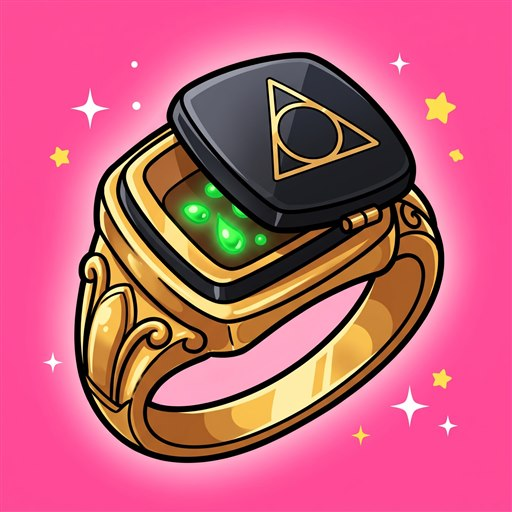
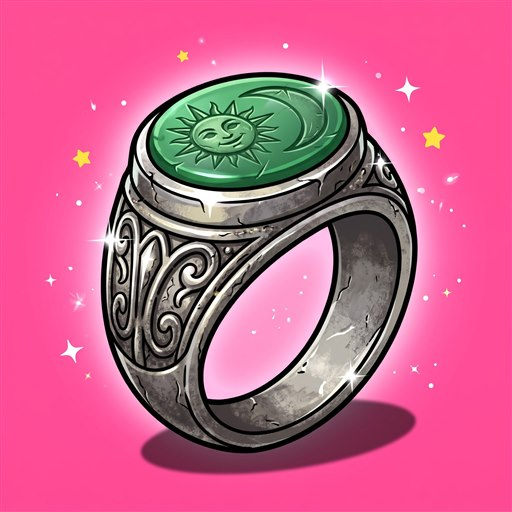
New art for the last 3 brand-free items: dice necklace, spider ring, alchemist's ring (sun and moon)

diff --git a/js/data.js b/js/data.js
@@ -65,7 +65,7 @@ export const ITEM_BASES = {
   neck_orloj: { slot: 'retiazka', name: 'Prívesok orloja', art: 'x_neck_orloj', stats: { charizma: 0.6 }, minLevel: 50, rarity: 'legendarny', desc: 'Zlatý astronomický ciferník so znameniami a diamantmi po obvode. Ukazuje čas, hviezdy aj to, kto je na rade. Vypadne len z bossa.' },
   ring_garnet: { slot: 'prsten', name: 'Prsteň s granátom', art: 'x_ring_garnet', stats: { stastie: 0.6 }, minLevel: 50, rarity: 'bezny', desc: 'Malý tmavočervený kameň v striebre. Skromný, ako sa na Staré Mesto patrí.' },
   ring_horseshoe: { slot: 'prsten', name: 'Prsteň s podkovou', art: 'x_ring_horseshoe', stats: { stastie: 0.6 }, minLevel: 50, rarity: 'bezny', desc: 'Strieborná podkova pre šťastie. Kôň, ktorý ju nosil, ho veľa nemal.' },
-  ring_alchemy: { slot: 'prsten', name: 'Alchymistov prsteň', art: 'x_ring_alchemy', stats: { stastie: 0.6 }, minLevel: 50, rarity: 'epicky', desc: 'Čierny ónyx so zlatým znakom a pod viečkom skrytá komôrka so zeleným jedom. Pripíjaš si s ním len raz.' },
+  ring_alchemy: { slot: 'prsten', name: 'Alchymistov prsteň', art: 'x_ring_alchemy', stats: { stastie: 0.6 }, minLevel: 50, rarity: 'epicky', desc: 'Staré striebro a zelený kameň s vyrytým slnkom a mesiacom. Alchymista v ňom vraj nosil recept, ktorý nikomu neprezradil.' },
   ring_grandmaster: { slot: 'prsten', name: 'Prsteň Veľmajstra', art: 'x_ring_grandmaster', stats: { stastie: 0.6 }, minLevel: 50, rarity: 'legendarny', desc: 'Masívne zlato, čierny diamant a venček rubínov. Kto ho nosí, nemusí v lóži nič hovoriť. Vypadne len z bossa.' },
   // Mesto 2 trousers (from level 50 anywhere)
   pinstripe: { slot: 'nohavice', name: 'Prúžkované nohavice s trakmi', art: 'x_pinstripe', stats: { armor: 2 }, minLevel: 50, rarity: 'bezny', desc: 'Sivé s tenkými prúžkami a čiernymi trakmi. Vyzeráš v nich ako účtovník, ktorý ti vie vyúčtovať aj zuby.' },
@@ -134,7 +134,7 @@ export const ITEM_BASES = {
   ring_opal: { slot: 'prsten', name: 'Prsteň s opálom', art: 'x_ring_opal', stats: { stastie: 0.6 }, rarity: 'bezny', desc: 'Kameň mení farbu podľa nálady. Tvoja je väčšinou zlá.' },
   ring_college: { slot: 'prsten', name: 'Absolventský prsteň', art: 'x_ring_college', stats: { stastie: 0.6 }, rarity: 'bezny', desc: 'Modrý kameň a orol. Na vysokej si nebol, ale prsteň máš z obchodu so zálohou.' },
   ring_dollar: { slot: 'prsten', name: 'Prsteň so znakom dolára', art: 'x_ring_dollar', stats: { stastie: 0.6 }, rarity: 'bezny', desc: 'Zlatý dolár vysypaný kamienkami. Nenápadnosť nie je tvoja silná stránka.' },
-  ring_nail: { slot: 'prsten', name: 'Zlatý prsteň v tvare klinca', art: 'x_ring_nail', stats: { stastie: 0.6 }, rarity: 'epicky', desc: 'Zlatý klinec omotaný okolo prsta, s radom diamantov na hlavičke. Pripomienka, že každý raz príde na rad.' },
+  ring_nail: { slot: 'prsten', name: 'Prsteň s pavúkom', art: 'x_ring_nail', stats: { stastie: 0.6 }, rarity: 'epicky', desc: 'Zlatý pavúk s telom z čierneho ónyxu sedí na prste a nehýbe sa. Kto ti podáva ruku, pozrie sa radšej dvakrát.' },
   ring_nugget: { slot: 'prsten', name: 'Prsteň zo zlatého nugetu', art: 'x_ring_nugget', stats: { stastie: 0.6 }, rarity: 'epicky', desc: 'Kus surového zlata, ako ho vytiahli zo zeme. Pri podaní ruky to každý pocíti.' },
   ring_champion: { slot: 'prsten', name: 'Šampiónsky prsteň', art: 'x_ring_champion', stats: { stastie: 0.6 }, rarity: 'epicky', desc: 'Diamanty v kruhoch, erb a pohár na boku. Vyhral si ho v lige, o ktorej nikto nesmie vedieť.' },
   ring_emerald_cut: { slot: 'prsten', name: 'Platinový prsteň s obrovským diamantom', art: 'x_ring_emerald_cut', stats: { stastie: 0.6 }, rarity: 'legendarny', desc: 'Diamant veľký ako kocka cukru a okolo neho ďalšie desiatky. Svieti aj v tme. Vypadne len z bossa.' },
@@ -150,7 +150,7 @@ export const ITEM_BASES = {
   neck_pawn: { slot: 'retiazka', name: 'Retiazka s pešiakom', art: 'x_neck_pawn', stats: { charizma: 0.6 }, rarity: 'bezny', desc: 'Zlatý pešiak na krku. Každý začína ako pešiak, len niektorí to dotiahnu ďalej.' },
   neck_jesus: { slot: 'retiazka', name: 'Ľadový prívesok s tvárou Krista', art: 'x_neck_jesus', stats: { charizma: 0.6 }, rarity: 'epicky', desc: 'Diamanty od tŕňovej koruny po bradu. Požehnanie, ktoré sa dá kúpiť.' },
   neck_tennis: { slot: 'retiazka', name: 'Diamantová tenisová retiazka', art: 'x_neck_tennis', stats: { charizma: 0.6 }, rarity: 'epicky', desc: 'Rad diamantov bez konca. Na tenis si ju nikto nikdy neobliekol.' },
-  neck_clover: { slot: 'retiazka', name: 'Retiazka s čiernymi štvorlístkami', art: 'x_neck_clover', stats: { charizma: 0.6 }, rarity: 'epicky', desc: 'Päť čiernych štvorlístkov na zlatej retiazke. Šťastie, ktoré si niekto zaplatil vopred.' },
+  neck_clover: { slot: 'retiazka', name: 'Retiazka s kockami', art: 'x_neck_clover', stats: { charizma: 0.6 }, rarity: 'epicky', desc: 'Dve kocky z čierneho ónyxu so zlatými bodkami. Kto ich nosí, hrá vždy s vlastnými, aby padlo, čo má padnúť.' },
   neck_king: { slot: 'retiazka', name: 'Ľadová retiaz s kráľom', art: 'x_neck_king', stats: { charizma: 0.6 }, rarity: 'legendarny', desc: 'Šachový kráľ z diamantov s rubínom na hrudi. Pešiak sa stal kráľom. Vypadne len z bossa.' },
   watch_rose: { slot: 'hodinky', name: 'Hodinky z ružového zlata', art: 'x_watch_rose', stats: { charizma: 0.3, stastie: 0.3 }, rarity: 'legendarny', desc: 'Tenké ako bankovka, ružové zlato a diamanty namiesto čísel. Nosia sa k obleku, nie k teplákom. Vypadnú len z bossa.' },
   watch_green: { slot: 'hodinky', name: 'Smaragdové hodinky', art: 'x_watch_green', stats: { charizma: 0.3, stastie: 0.3 }, rarity: 'legendarny', desc: 'Venček smaragdov okolo čierneho ciferníka. Zelené ako peniaze, len vydržia dlhšie. Vypadnú len z bossa.' },

diff --git a/js/remote.js b/js/remote.js
@@ -1,10 +1,10 @@
 // Online client: the same SimServer, but only as a read-only mirror of the state the real server sent.
 // Every action goes to the Edge Function "game"; its answer replaces the mirror. Things the server rolls
 // at random (mission offers, shop stock, arena opponents, rival gang moves) are never rolled here.
-import { SimServer } from './server.js?v=20261117214521';
-import { NET } from './net.js?v=20261117214521';
-import { CONFIG } from './config.js?v=20261117214521';
-import { SHOPS } from './data.js?v=20261117214521';
+import { SimServer } from './server.js?v=20261117223454';
+import { NET } from './net.js?v=20261117223454';
+import { CONFIG } from './config.js?v=20261117223454';
+import { SHOPS } from './data.js?v=20261117223454';
 
 const SUPABASE_JS = 'https://cdn.jsdelivr.net/npm/@supabase/supabase-js@2.45.4/+esm';
 
@@ -31,7 +31,7 @@ export class RemoteServer extends SimServer {
 
   // ?mock in the address: no Supabase, the server API runs in this browser against an in-memory database
   async initMock() {
-    const { handle, memoryDb } = await import('./api.js?v=20261117214521');
+    const { handle, memoryDb } = await import('./api.js?v=20261117223454');
     const db = memoryDb();
     const fake = { user: { id: 'mock-user', email: 'test@mock' } };
     this.sb = { auth: { signOut: async () => {}, signInWithPassword: async () => ({ data: { session: fake } }), signUp: async () => ({ data: { session: fake } }), resetPasswordForEmail: async () => ({}) } };

diff --git a/js/ui.js b/js/ui.js
@@ -1,11 +1,11 @@
 // HTML interface: HUD, menus, screens, modals. Talks only to the (simulated) server.
-import { STATS, STAT_NAMES, CLASSES, RARITIES, CONFIG, F } from './config.js?v=20261117214521';
-import { SLOTS, ITEM_BASES, SHOPS, MISSIONS, GIVERS, BOSSES, GANG_COLORS, GANG_RANKS, GANG_UPGRADES, CITIES } from './data.js?v=20261117214521';
-import { EVENTS, EVENT_ROTATION, activeEvents, nextEvents } from './events.js?v=20261117214521';
-import { DAILY_TYPES } from './daily.js?v=20261117214521';
-import { LOOK_BASE, LOOK_PARTS } from './looks.js?v=20261117214521';
-import { sound } from './sound.js?v=20261117214521';
-import { MEDALS, MEDAL_TIERS, MEDAL_COUNT, medalSvg, frameHtml, medalTotal } from './medals.js?v=20261117214521';
+import { STATS, STAT_NAMES, CLASSES, RARITIES, CONFIG, F } from './config.js?v=20261117223454';
+import { SLOTS, ITEM_BASES, SHOPS, MISSIONS, GIVERS, BOSSES, GANG_COLORS, GANG_RANKS, GANG_UPGRADES, CITIES } from './data.js?v=20261117223454';
+import { EVENTS, EVENT_ROTATION, activeEvents, nextEvents } from './events.js?v=20261117223454';
+import { DAILY_TYPES } from './daily.js?v=20261117223454';
+import { LOOK_BASE, LOOK_PARTS } from './looks.js?v=20261117223454';
+import { sound } from './sound.js?v=20261117223454';
+import { MEDALS, MEDAL_TIERS, MEDAL_COUNT, medalSvg, frameHtml, medalTotal } from './medals.js?v=20261117223454';
 
 const $ = (sel, el = document) => el.querySelector(sel);
 const fmt = (n) => Math.round(n).toLocaleString('sk-SK');

diff --git a/js/server.js b/js/server.js
@@ -1,12 +1,12 @@
 // Simulated game server. Every rule about money, rewards and fights lives here, so this module
 // can later move to a real backend (Supabase / Nakama) while the client keeps the same calls.
-import { CONFIG, F, STATS, STAT_NAMES, CLASSES, RARITIES, clamp, localParts } from './config.js?v=20261117214521';
-import { eventFx } from './events.js?v=20261117214521';
-import { ITEM_BASES, SHOPS, MISSIONS, GIVERS, BOSSES, BOSSES2, BOT_NAMES, SLOTS, CITIES } from './data.js?v=20261117214521';
-import { makeFighter, simulate, mulberry32 } from './combat.js?v=20261117214521';
-import { GangMixin } from './gangs.js?v=20261117214521';
-import { DailyMixin } from './daily.js?v=20261117214521';
-import { MEDALS, MEDAL_TIERS, medalProgress, medalTiers, medalTotal } from './medals.js?v=20261117214521';
+import { CONFIG, F, STATS, STAT_NAMES, CLASSES, RARITIES, clamp, localParts } from './config.js?v=20261117223454';
+import { eventFx } from './events.js?v=20261117223454';
+import { ITEM_BASES, SHOPS, MISSIONS, GIVERS, BOSSES, BOSSES2, BOT_NAMES, SLOTS, CITIES } from './data.js?v=20261117223454';
+import { makeFighter, simulate, mulberry32 } from './combat.js?v=20261117223454';
+import { GangMixin } from './gangs.js?v=20261117223454';
+import { DailyMixin } from './daily.js?v=20261117223454';
+import { MEDALS, MEDAL_TIERS, medalProgress, medalTiers, medalTotal } from './medals.js?v=20261117223454';
 
 const KEY = 'hitsnlicks.save.v1';
 const MIN = 60000;

diff --git a/js/world.js b/js/world.js
@@ -1,9 +1,9 @@
 // The open world: pixel-art city, player movement, NPCs, traffic, police. Uses global Phaser.
 // A city comes from its city.json (tools/mapa.ps1 builds them from tools/art/City.cs, City2.cs): a collision grid,
 // a street graph that cars, police, walkers, the Ripper and the runner move on, and the buildings (marks).
-import { CITIES, WALKER_SPRITES } from './data.js?v=20261117214521';
-import { mulberry32 } from './combat.js?v=20261117214521'; // the server's generator: a task's seed hides its packages on the same corners everywhere
-import { sound } from './sound.js?v=20261117214521';
+import { CITIES, WALKER_SPRITES } from './data.js?v=20261117223454';
+import { mulberry32 } from './combat.js?v=20261117223454'; // the server's generator: a task's seed hides its packages on the same corners everywhere
+import { sound } from './sound.js?v=20261117223454';
 
 const PEOPLE = ['hrac', 'zlodej', 'svalovec', 'dealer', 'boss', 'zadavatel', 'diler', 'mechanik', 'pravnicka', 'lekarka', 'policajt', 'chodkyna', 'chodec'];
 const CARS = ['sedan_blue', 'sedan_red', 'sedan_green', 'sedan_white', 'taxi', 'police', 'van', 'pickup'];

diff --git a/js/main.js b/js/main.js
@@ -1,10 +1,10 @@
-import { SimServer } from './server.js?v=20261117214521';
-import { RemoteServer } from './remote.js?v=20261117214521';
-import { ONLINE } from './net.js?v=20261117214521';
-import { CONFIG } from './config.js?v=20261117214521';
-import { UI } from './ui.js?v=20261117214521';
-import { createWorld } from './world.js?v=20261117214521';
-import { sound } from './sound.js?v=20261117214521';
+import { SimServer } from './server.js?v=20261117223454';
+import { RemoteServer } from './remote.js?v=20261117223454';
+import { ONLINE } from './net.js?v=20261117223454';
+import { CONFIG } from './config.js?v=20261117223454';
+import { UI } from './ui.js?v=20261117223454';
+import { createWorld } from './world.js?v=20261117223454';
+import { sound } from './sound.js?v=20261117223454';
 
 // warm the browser cache so screens open without blank images
 ['maska', 'diler', 'kladivo', 'fightbg', 'it_pistol', 'it_bat', 'it_watch', 'it_duffel', 'it_package', 'it_keys']

diff --git a/js/gangs.js b/js/gangs.js
@@ -5,9 +5,9 @@
 //   ctx.people = { playerId: { name, level, cls, fighter, gangId } } for members, requests and defenders
 // and saves whatever changed in one go. Offline (no server) the gang and the city live in the save itself
 // and the player is the only member. Mixed into SimServer, so `this` is the server.
-import { CONFIG, F, STATS, CLASSES } from './config.js?v=20261117214521';
-import { ALL_TURF, TURF_KINDS, RIVAL_GANGS, GANG_COLORS, GANG_UPGRADES, BOT_NAMES } from './data.js?v=20261117214521';
-import { makeFighter, simulate, mulberry32 } from './combat.js?v=20261117214521';
+import { CONFIG, F, STATS, CLASSES } from './config.js?v=20261117223454';
+import { ALL_TURF, TURF_KINDS, RIVAL_GANGS, GANG_COLORS, GANG_UPGRADES, BOT_NAMES } from './data.js?v=20261117223454';
+import { makeFighter, simulate, mulberry32 } from './combat.js?v=20261117223454';
 
 const MIN = 60000;
 const ok = (data = {}) => ({ ok: true, ...data });

diff --git a/index.html b/index.html
@@ -8,7 +8,7 @@
 <link rel="preconnect" href="https://fonts.googleapis.com">
 <link rel="preconnect" href="https://fonts.gstatic.com" crossorigin>
 <link href="https://fonts.googleapis.com/css2?family=Grenze+Gotisch:wght@500;700;900&amp;family=EB+Garamond:ital,wght@0,400;0,500;0,600;0,700;1,400&amp;display=swap" rel="stylesheet">
-<link rel="stylesheet" href="css/style.css?v=20261117214521">
+<link rel="stylesheet" href="css/style.css?v=20261117223454">
 <script src="https://cdn.jsdelivr.net/npm/phaser@3.80.1/dist/phaser.min.js"></script>
 </head>
 <body>
@@ -82,6 +82,6 @@
   <div id="modal" hidden></div>
   <div id="toasts"></div>
 </div>
-<script type="module" src="js/main.js?v=20261117214521"></script>
+<script type="module" src="js/main.js?v=20261117223454"></script>
 </body>
 </html>

diff --git a/js/daily.js b/js/daily.js
@@ -2,8 +2,8 @@
 // 15-day reward calendar (cash, a level, gold bars, a legendary item on day 15). A skipped day just waits.
 // The map reports progress (dailyStep); the server picks the places, counts and checks the timing.
 // Mixed into SimServer, so `this` is the server.
-import { CONFIG, F } from './config.js?v=20261117214521';
-import { ITEM_BASES, DAILY_SPOT_IDS, CITIES } from './data.js?v=20261117214521';
+import { CONFIG, F } from './config.js?v=20261117223454';
+import { ITEM_BASES, DAILY_SPOT_IDS, CITIES } from './data.js?v=20261117223454';
 
 const ok = (data = {}) => ({ ok: true, ...data });
 const fail = (error) => ({ ok: false, error });

diff --git a/js/api.js b/js/api.js
@@ -24,8 +24,8 @@
 //   hall(n) -> [{ id, name, level, cls, points, club }]   (highest level first; club = Podzemné zápasy floor)
 //   addPoints(id, delta)
 //   deletePlayer(id)
-import { SimServer } from './server.js?v=20261117214521';
-import { GIVERS, SHOPS } from './data.js?v=20261117214521';
+import { SimServer } from './server.js?v=20261117223454';
+import { GIVERS, SHOPS } from './data.js?v=20261117223454';
 
 const memStore = { load: () => null, save() {}, clear() {} };
 const fail = (error) => ({ ok: false, error });

diff --git a/js/sound.js b/js/sound.js
@@ -2,7 +2,7 @@
 // sound.play(name, { delay, vol }) plays one effect; sound.weapon(base) / sound.equip(base) pick the
 // effect that fits an item. On/off is per device (localStorage), off by default only if the player turned it off.
 // Browsers start audio muted until the first touch or key, so nothing plays before that.
-import { ITEM_BASES } from './data.js?v=20261117214521';
+import { ITEM_BASES } from './data.js?v=20261117223454';
 
 const KEY = 'hl_sound';
 let enabled = true;

diff --git a/js/events.js b/js/events.js
@@ -2,7 +2,7 @@
 // a better one and a weaker one, following a 6-weekend rotation. Server and client compute them from the date,
 // so every player has the same weekend. fx() merges what the active events change; the game reads it where
 // rewards, prices and timers are worked out.
-import { localParts } from './config.js?v=20261117214521';
+import { localParts } from './config.js?v=20261117223454';
 
 const DAY = 86400000;
 
